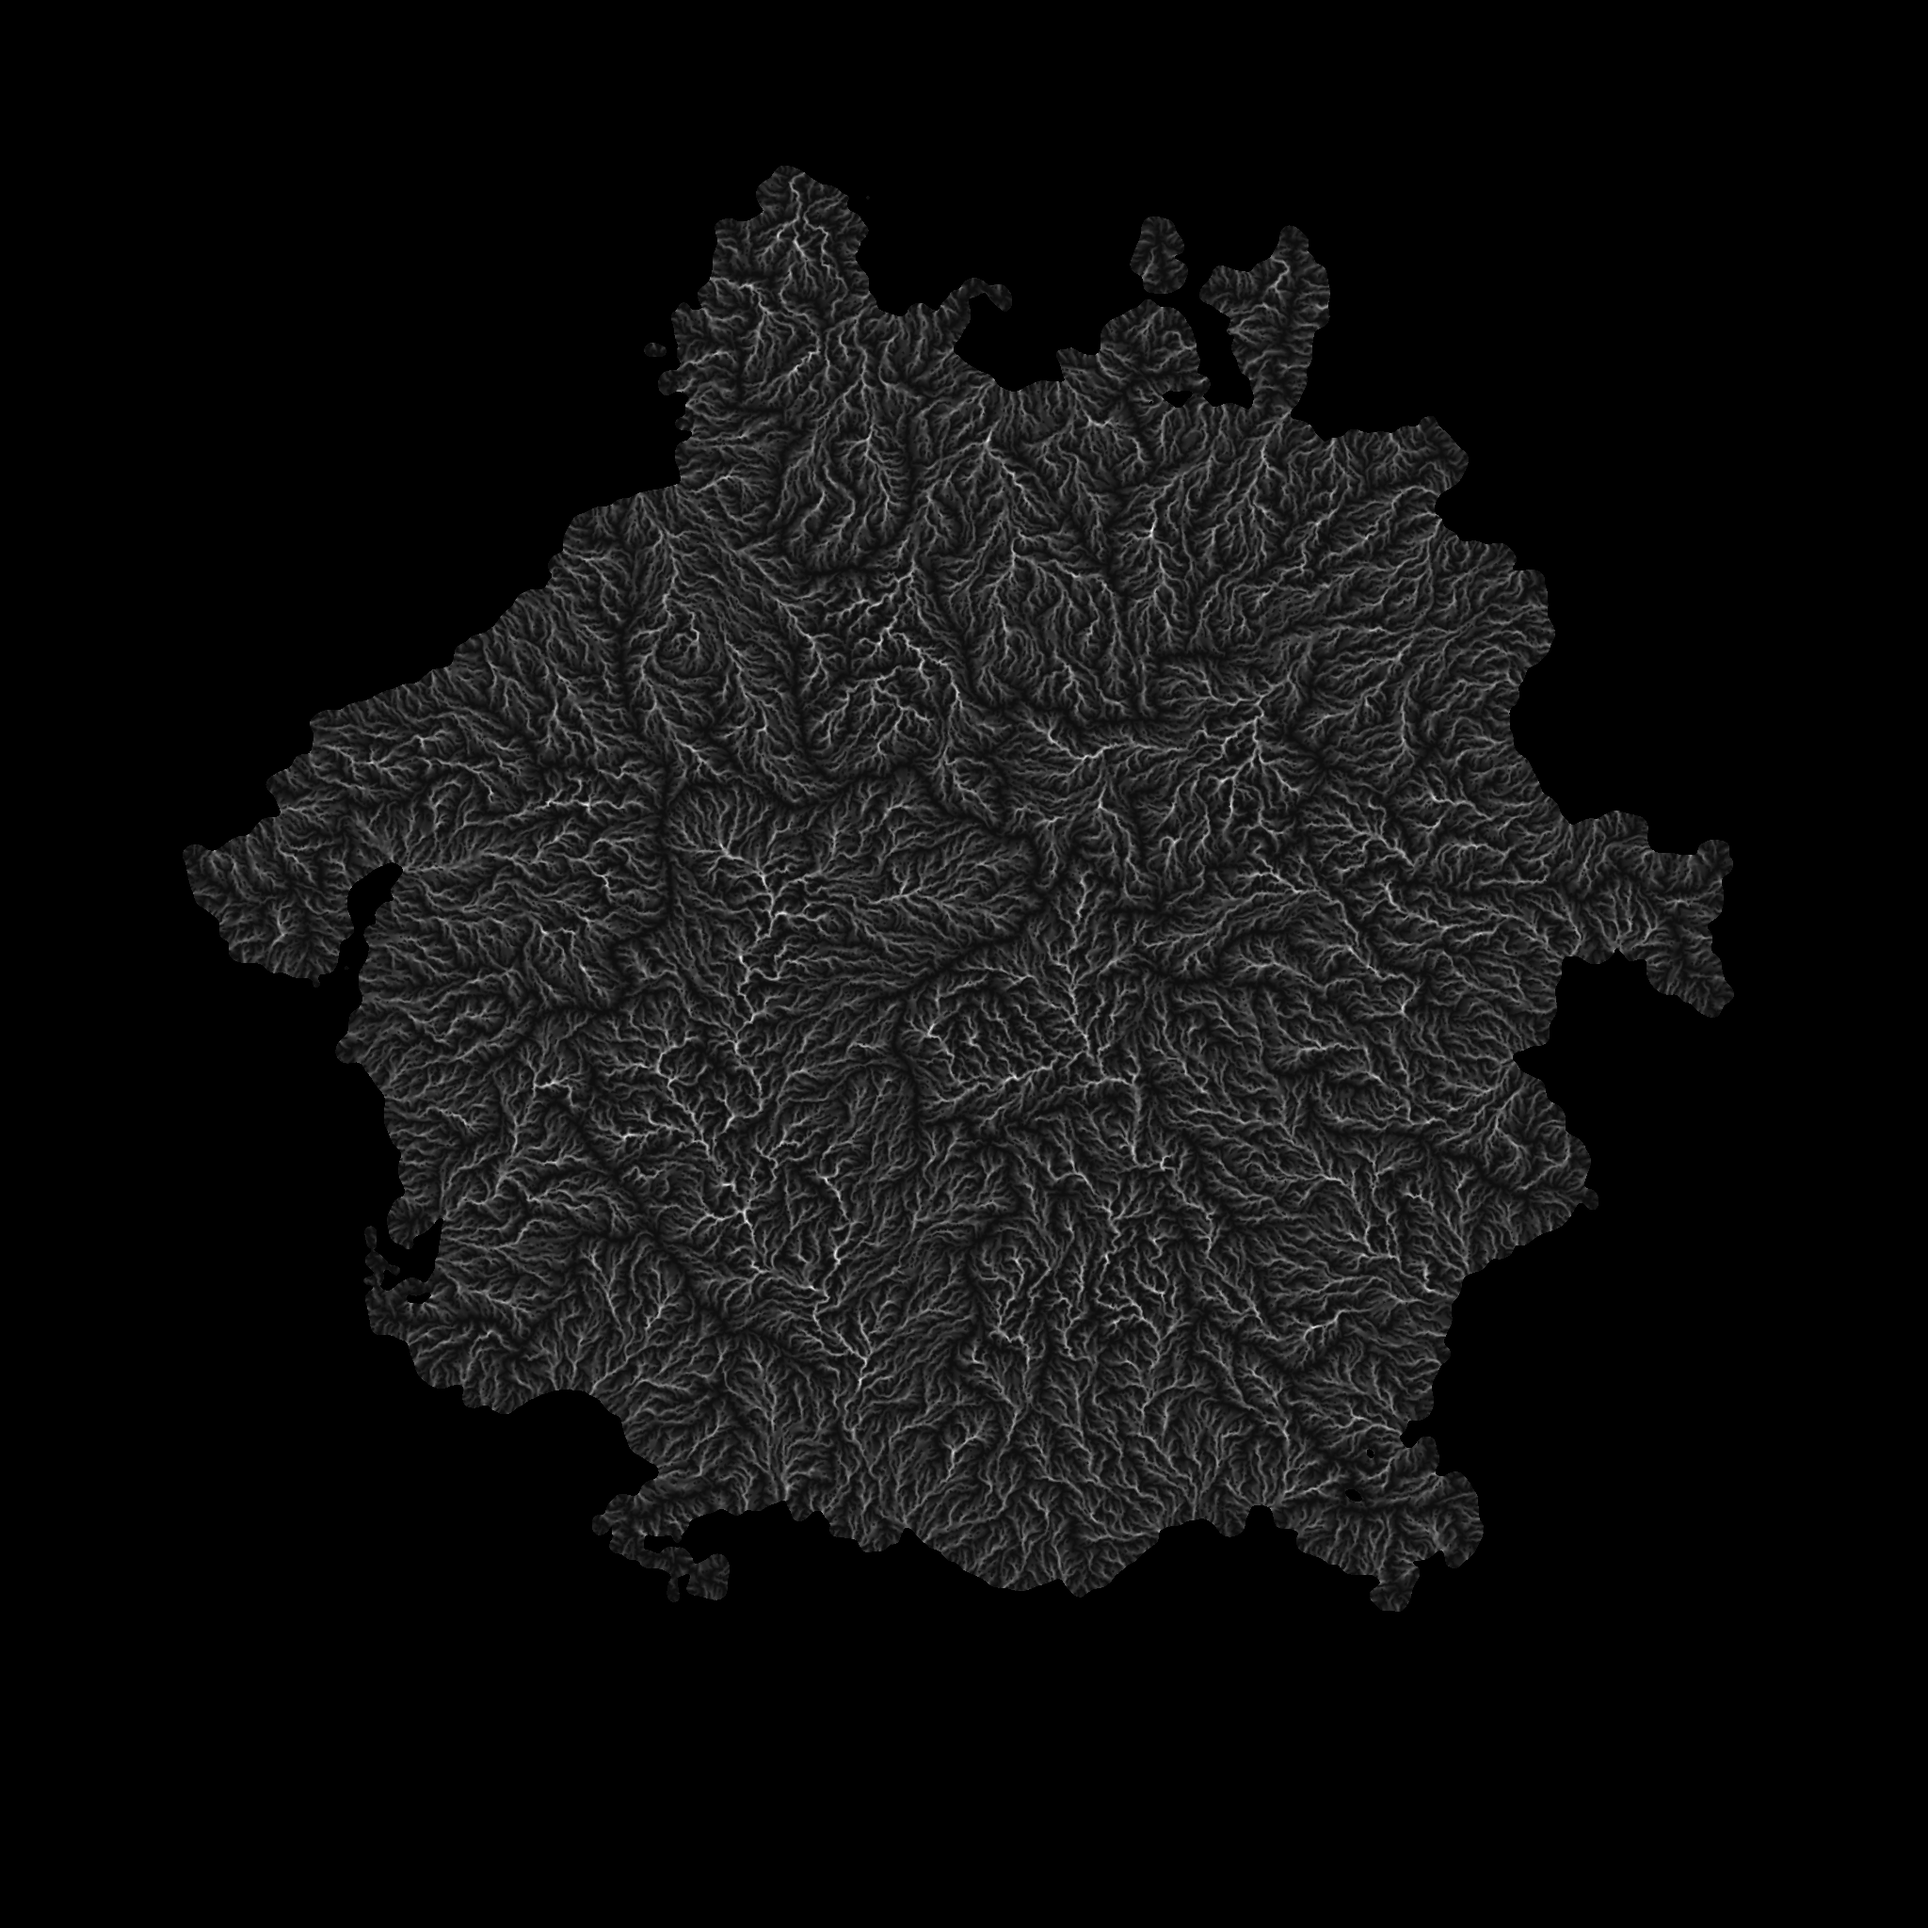
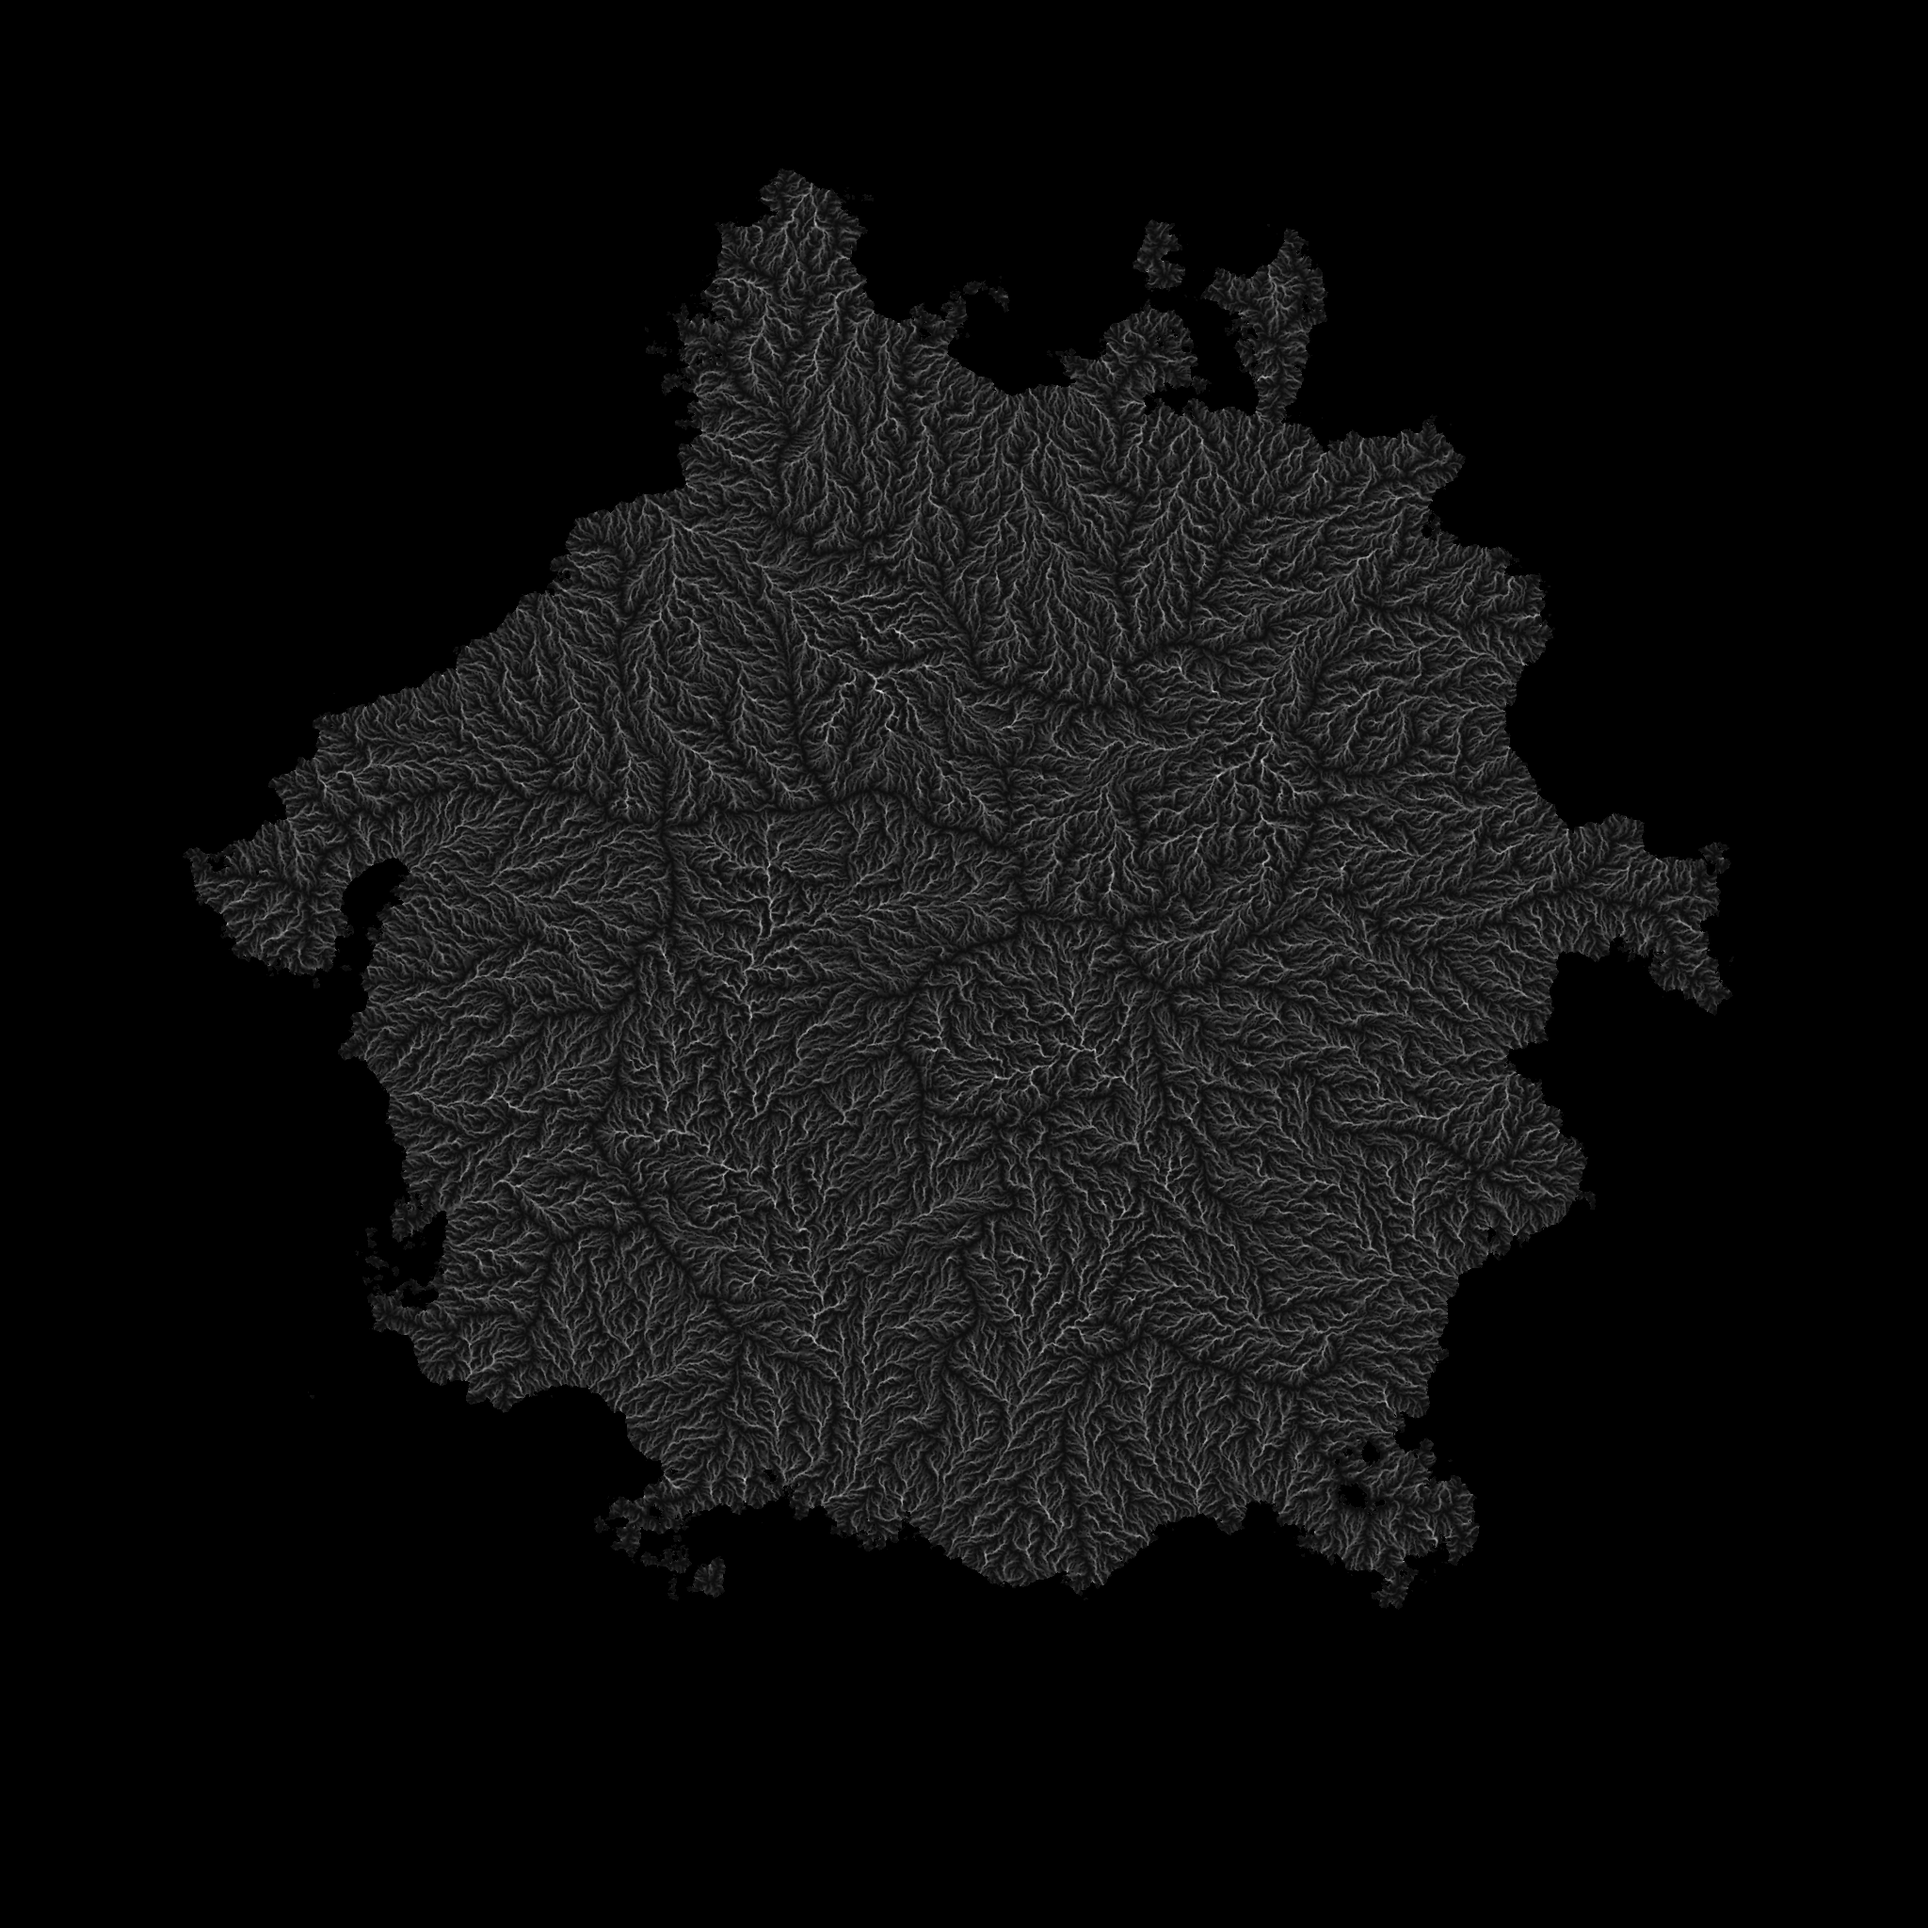
fix 16 bit heightmap handling

Changed region(s): [[0.0938, 0.0938, 0.9062, 0.8438]]

diff --git a/TerrainGen-Python/terrain-heuristics/terrain_heuristics.py b/TerrainGen-Python/terrain-heuristics/terrain_heuristics.py
@@ -34,6 +34,7 @@ from typing import Dict, List, Tuple, Optional
 
 import numpy as np
 from PIL import Image
+import sys
 from scipy.ndimage import (
     uniform_filter,
     convolve,
@@ -53,22 +54,33 @@ def load_heightmap(path: str, z_min: float, z_max: float) -> Tuple[np.ndarray, i
     Returns (elev_m, bit_depth), where bit_depth is 8 or 16.
     """
     img = Image.open(path)
-    # Don't force-convert yet; inspect dtype
+    # Don't force-convert yet; inspect mode and dtype
     arr = np.array(img)
     # If someone accidentally passes RGB(A), take the first channel
     if arr.ndim == 3:
         arr = arr[..., 0]
 
-    if arr.dtype == np.uint16:
+    # Detect 16-bit robustly: any unsigned 2-byte dtype (handles '>u2'/'<u2')
+    if arr.dtype.kind == 'u' and arr.dtype.itemsize == 2:
+        # Ensure native endianness for consistency
+        if arr.dtype.byteorder == '>' or (arr.dtype.byteorder == '=' and sys.byteorder == 'big'):
+            arr = arr.byteswap().newbyteorder()
         bit_depth = 16
         maxv = 65535.0
     else:
-        # Normalize all other cases to 8-bit grayscale
-        if img.mode != 'L':
-            img = img.convert('L')
-            arr = np.array(img)
-        bit_depth = 8
-        maxv = 255.0
+        # Some PIL versions load 16-bit grayscale as 32-bit 'I'. If so, and
+        # the value range fits in 16 bits, treat as 16-bit instead of clipping.
+        if (arr.dtype.kind in ('i', 'u') and arr.dtype.itemsize >= 4 and np.max(arr) <= 65535):
+            arr = arr.astype(np.uint16, copy=False)
+            bit_depth = 16
+            maxv = 65535.0
+        else:
+            # Normalize all other cases to 8-bit grayscale
+            if img.mode != 'L':
+                img = img.convert('L')
+                arr = np.array(img)
+            bit_depth = 8
+            maxv = 255.0
 
     elev = z_min + (arr.astype(np.float32) / maxv) * (z_max - z_min)
     return elev, bit_depth
@@ -88,8 +100,11 @@ def load_scalar_texture(path: str, target_shape: Optional[Tuple[int, int]] = Non
     arr = np.array(img)
     if arr.ndim == 3:
         arr = arr[..., 0]
-    # If not grayscale integer, try converting to 8-bit L to avoid surprises
-    if arr.dtype == np.uint16:
+    # Accept 8/16-bit grayscale robustly; if other, convert to 8-bit L
+    if arr.dtype.kind == 'u' and arr.dtype.itemsize == 2:
+        # Normalize endianness
+        if arr.dtype.byteorder == '>' or (arr.dtype.byteorder == '=' and sys.byteorder == 'big'):
+            arr = arr.byteswap().newbyteorder()
         data = arr.astype(np.float32)
     elif arr.dtype == np.uint8:
         data = arr.astype(np.float32)
@@ -99,11 +114,14 @@ def load_scalar_texture(path: str, target_shape: Optional[Tuple[int, int]] = Non
         data = np.array(img).astype(np.float32)
 
     if target_shape is not None and tuple(data.shape) != tuple(target_shape):
-        # PIL expects (width, height)
-        h, w = target_shape
-        pil_img = Image.fromarray(data.astype(np.float32))
-        pil_img = pil_img.resize((w, h), resample=Image.NEAREST)
-        data = np.array(pil_img).astype(np.float32)
+        # Resize with pure NumPy nearest-neighbor to preserve value range exactly
+        src_h, src_w = data.shape
+        dst_h, dst_w = target_shape
+        y_idx = np.floor(np.arange(dst_h, dtype=np.float64) * src_h / dst_h).astype(np.int64)
+        x_idx = np.floor(np.arange(dst_w, dtype=np.float64) * src_w / dst_w).astype(np.int64)
+        y_idx = np.clip(y_idx, 0, src_h - 1)
+        x_idx = np.clip(x_idx, 0, src_w - 1)
+        data = data[y_idx][:, x_idx].astype(np.float32)
 
     return data.astype(np.float32)
 
@@ -1231,13 +1249,13 @@ def classify_biomes_advanced(elev: np.ndarray, sea_level_m: float, temp_c: np.nd
 # -------------------------
 def parse_args():
     p = argparse.ArgumentDefaultsHelpFormatter
-    ap = argparse.ArgumentParser(description="Compute terrain heuristics and simple climate/biome maps from an 8-bit PNG heightmap.", formatter_class=p)
-    ap.add_argument('--input', required=True, help="Input heightmap PNG (8-bit grayscale).")
+    ap = argparse.ArgumentParser(description="Compute terrain heuristics and simple climate/biome maps from a PNG heightmap (8- or 16-bit grayscale).", formatter_class=p)
+    ap.add_argument('--input', required=True, help="Input heightmap PNG (8- or 16-bit grayscale).")
     ap.add_argument('--outdir', required=True, help="Output directory for textures.")
-    ap.add_argument('--cellsize', type=float, default=50.0, help="Meters per pixel.")
+    ap.add_argument('--cellsize', type=float, default=10.0, help="Meters per pixel.")
     ap.add_argument('--z-min', type=float, default=0.0, help="Elevation (m) at heightmap value 0.")
-    ap.add_argument('--z-max', type=float, default=3000.0, help="Elevation (m) at heightmap value 255.")
-    ap.add_argument('--bit-depth', type=int, default=16, choices=[8,16], help="Output PNG bit depth (normals and biome map saved as 8-bit RGB for compatibility).")
+    ap.add_argument('--z-max', type=float, default=4000.0, help="Elevation (m) at heightmap value 255.")
+    ap.add_argument('--bit-depth', type=int, default=0, choices=[0,8,16], help="Output PNG bit depth: 0=auto (match input), or 8/16. Normals and biome map are saved as 8-bit RGB.")
     ap.add_argument(
         '--compute',
         nargs='+',
@@ -1258,14 +1276,14 @@ def parse_args():
 
     # Climate / water masks
     ap.add_argument('--sea-level-m', type=float, default=0.0, help="Elevation threshold in meters for oceans (<= is ocean).")
-    ap.add_argument('--lapse-rate-c-per-km', type=float, default=9.5, help="Lapse rate (°C/km).")
+    ap.add_argument('--lapse-rate-c-per-km', type=float, default=8.5, help="Lapse rate (°C/km).")
     ap.add_argument('--t-equator-c', type=float, default=30.0, help="Sea-level annual mean temperature at equator (°C).")
     ap.add_argument('--t-pole-c', type=float, default=-15.0, help="Sea-level annual mean temperature at poles (°C).")
-    ap.add_argument('--coast-decay-km', type=float, default=1.75, help="e-folding distance for moisture decay from coasts (km).")
+    ap.add_argument('--coast-decay-km', type=float, default=0.4, help="e-folding distance for moisture decay from coasts (km).")
     ap.add_argument('--orographic-alpha', type=float, default=4.0, help="Orographic lift multiplier for positive directional slope.")
     ap.add_argument('--shadow-beta', type=float, default=0.15, help="Rain shadow strength for negative directional slope.")
     ap.add_argument('--biome-mixing-factor', type=int, default=1, help="Biome mixing amount")
-    ap.add_argument('--use-random-biomes', default=True, action='store_true', help="Use randomized biome sampling")
+    ap.add_argument('--use-random-biomes', default=False, action='store_true', help="Use randomized biome sampling")
 
     return ap.parse_args()
 
@@ -1316,6 +1334,9 @@ def main():
 
     print("[1/10] Loading heightmap…")
     elev, in_bit_depth = load_heightmap(args.input, args.z_min, args.z_max)
+    # Auto-select output bit depth if requested
+    if args.bit_depth == 0:
+        args.bit_depth = in_bit_depth
     h, w = elev.shape
     print_stats("elev_m", elev)
 

diff --git a/TerrainGen-Python/terrain-heuristics/terrain_gui.py b/TerrainGen-Python/terrain-heuristics/terrain_gui.py
@@ -700,7 +700,7 @@ class MainWindow(QMainWindow):
         return sel
 
     def on_load(self):
-        path, _ = QFileDialog.getOpenFileName(self, "Open heightmap (8-bit PNG)", "", "PNG Images (*.png);;All Files (*)")
+        path, _ = QFileDialog.getOpenFileName(self, "Open heightmap PNG (8/16-bit)", "", "PNG Images (*.png);;All Files (*)")
         if not path: return
         try:
             self.engine.load_heightmap_path(path)
